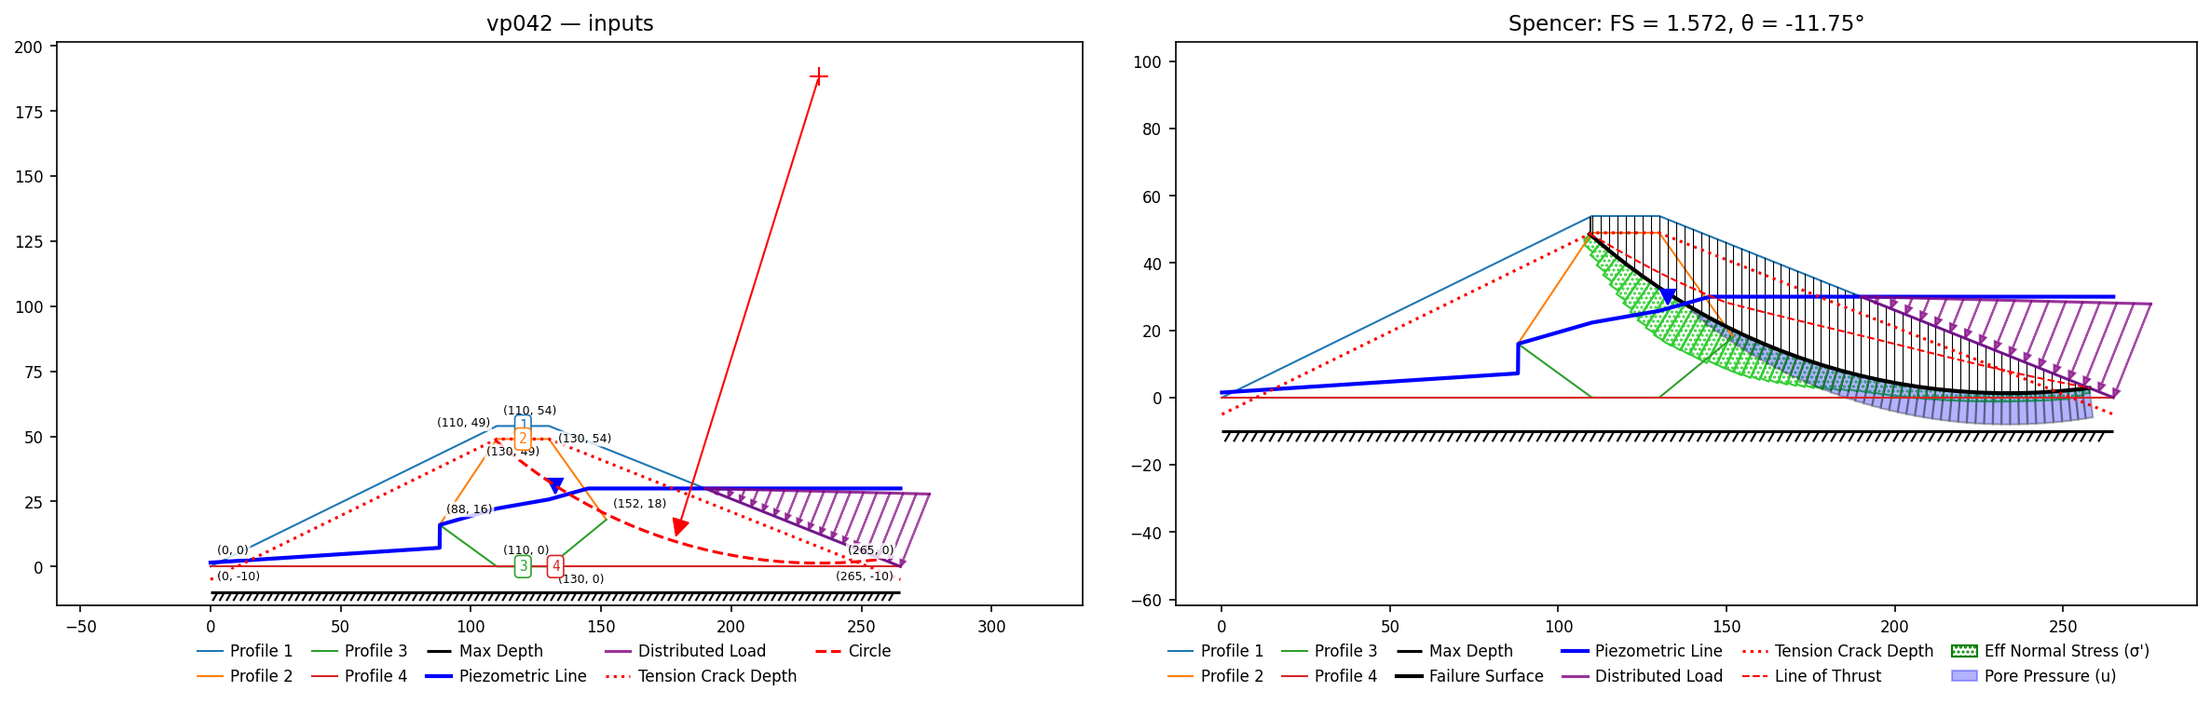
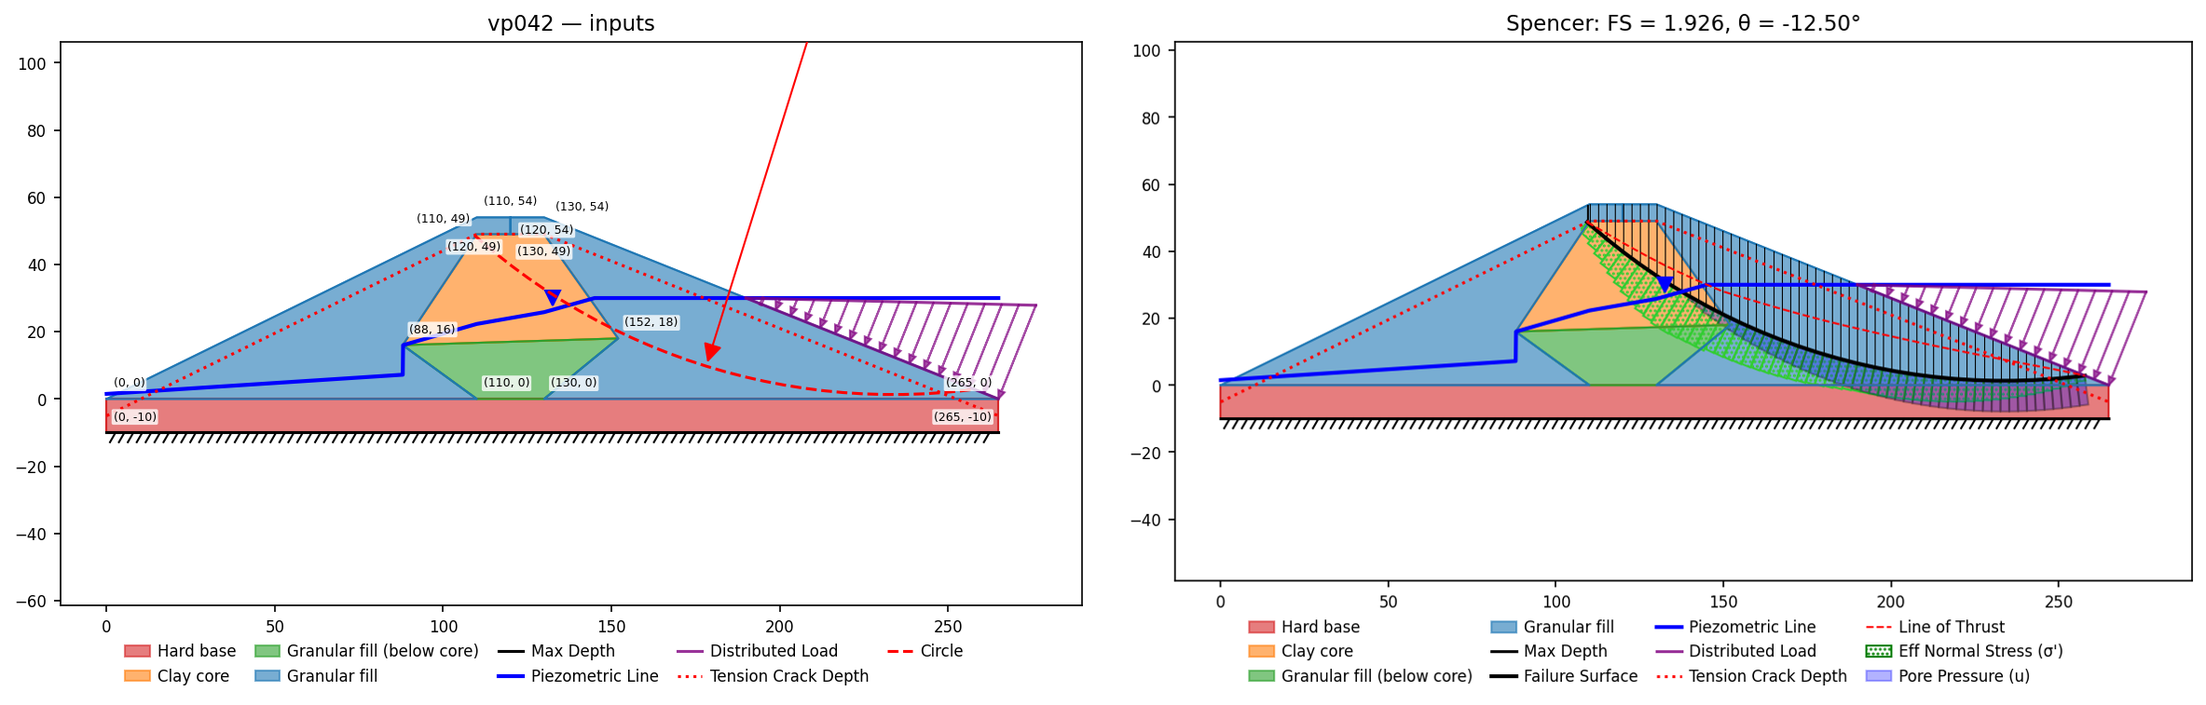
docs(vp42): rewrite as resolved — XSLOPE reproduces the published cluster
rocscience.md #vp42 now presents the verification success: the three reference
surfaces match (Slide's circle Spencer 1.926 vs 1.925; Baker noncirc 1.882 vs
1.91; SLOPE/W's own circle 1.939 vs 1.934, agreeing within 0.005 with sliding-
mass weight ~56,020 vs 56,127), keeping the standing robustness findings (total-
weight + explicit-u convention verified from B&L 2001 and the .gsz; reservoir
statics exact against the buoyant-weight oracle; the fold-in inequivalence and
phreatic-match notes). geostudio.md §2.25 updated to the matching numbers.

rs2.md Part IV row 42: LEM side now matches; FEM re-tested on the rebuilt file —
it now equilibrates (the pre-fix file did not reach equilibrium even at F=0.10)
but localizes the non-physical c=0 downstream uplift blowout at SSRM ~0.66, far
below RS2 SSR 1.84, so reported-not-locked (same c=0 + full-field-pore construct
as the pool dams). Figure regenerated from the rebuilt file.

Claude-Session: https://claude.ai/code/session_0147GB4LGVZuqGHCRMVzZTsR

diff --git a/docs/verification/rocscience.md b/docs/verification/rocscience.md
@@ -228,7 +228,7 @@ corpus is complete relative to what is independently verifiable.
 | [39](#vp39) | Reinforced embankment, (2) materials, tension crack, geosynthetic | **built** (circular cases) | [vp039a](../files/rocscience/vp039a.xlsx)/[b](../files/rocscience/vp039b.xlsx)/[c](../files/rocscience/vp039c.xlsx)/[d](../files/rocscience/vp039d.xlsx). Tandjiria (2002): the geosynthetic force required to restore FS=1.35 on a half-embankment, as clay and as sand fill (noncircular cases not locked — see section). Also [SLOPE/W §2.24](geostudio.md) — same problem in the GeoStudio corpus. |
 | [40](#vp40) | Slope, homogenous, sensitivity analysis | **built** | [vp040.xlsx](../files/rocscience/vp040.xlsx). Perry (1993) power-curve strength slope on the specified surface — the corpus's first sensitivity benchmark, sweeping the A and b parameters through `sensitivity()`. |
 | [41](#vp41) | Slope, homogenous, ru pore pressure | **built** | [vp041.xlsx](../files/rocscience/vp041.xlsx). Jiang, Baker & Yamagami (2003): power-curve strength τ=1.4·σ′^0.8 with r<sub>u</sub>=0.3 — exercises the `pow` and `ru` options together. |
-| [42](#vp42) | Dam, (3) materials, water table, ponded water, tension crack | **built** | [vp042.xlsx](../files/rocscience/vp042.xlsx). Baker & Leshchinsky (2001) safety-map clay-core dam — the corpus's reservoir-load statics finding (XSLOPE reads ~13–19% below Slide/Baker/SLOPE/W, which share XSLOPE's total-weight + u convention; the difference is the large reservoir-load statics, not a weight convention; see section). Also [SLOPE/W §2.25](geostudio.md) — same problem in the GeoStudio corpus. |
+| [42](#vp42) | Dam, (3) materials, water table, ponded water, tension crack | **built** | [vp042.xlsx](../files/rocscience/vp042.xlsx). Baker & Leshchinsky (2001) safety-map clay-core dam — XSLOPE reproduces the published cluster on all three reference surfaces (Slide's circle Spencer 1.926 vs 1.925; Baker's noncircular 1.882 vs 1.91; SLOPE/W's own circle 1.939 vs 1.934), with the reservoir carried as an explicit hydrostatic face load validated against a buoyant-weight oracle. Also [SLOPE/W §2.25](geostudio.md) — same problem in the GeoStudio corpus. |
 | [43](#vp43) | Slope, homogenous, planar surface, RocPlane comparison | **built** | [vp043.xlsx](../files/rocscience/vp043.xlsx). Baker (2001) planar-slip benchmark (c'=30, φ'=30, γ=20, dry) on the critical toe plane; the SLOPE/W model pins the crest-offset geometry. Also [SLOPE/W §2.26](geostudio.md#gs-2-26) — same problem in the GeoStudio corpus. |
 | [44](#vp44) | Slope, homogenous | **built** | [vp044a.xlsx](../files/rocscience/vp044a.xlsx) (power curve) / [vp044b.xlsx](../files/rocscience/vp044b.xlsx) (Mohr-Coulomb) / [vp044c.xlsx](../files/rocscience/vp044c.xlsx) (converged LLA). Baker (2003) ex. 1: a 43° slope with three strength models fitted to the same triaxial data. |
 | [45](#vp45) | Slope, homogenous | **built** | [vp045a.xlsx](../files/rocscience/vp045a.xlsx) (Mohr-Coulomb) / [vp045b.xlsx](../files/rocscience/vp045b.xlsx) (power curve). Baker (2003) ex. 2: a linear vs non-linear strength envelope on the same 4:1 slope. |
@@ -1238,27 +1238,25 @@ Slide #41: Jiang, Baker & Yamagami (2003) homogeneous clay slope with power-curv
 
 ![vp041: inputs and representative solution](images/vp041.png)
 
-### VP42: Baker & Leshchinsky safety-map dam — an open reservoir-loaded statics gap {#vp42}
+### VP42: Baker & Leshchinsky safety-map dam — reservoir-loaded clay-core dam {#vp42}
 
-Slide #42 / Baker & Leshchinsky (2001): the safety-map clay-core dam — granular fill (c' = 0, φ' = 40°, γ = 21.5) around a diamond core (c' = 20, φ' = 20°, γ = 20) on a hard base (c' = 200, φ' = 45°), a half-full upstream (right-side) reservoir, phreatic dropping through the core to a tailwater exit at the downstream toe, and a 5-m cracked layer at the crest modeled as a dry tension crack. Geometry is fully labeled in Slide's figure (all six core vertices); B&L's own Fig. 5(a) — the paper is in the reference library — supplies the phreatic (flat through the shell, descending through the core, half-height reservoir).
+Slide #42 / Baker & Leshchinsky (2001): the safety-map clay-core dam — granular fill (c' = 0, φ' = 40°, γ = 21.5) around a diamond core (c' = 20, φ' = 20°, γ = 20) on a hard base (c' = 200, φ' = 45°), a half-full upstream (right-side) reservoir, phreatic dropping through the core to a tailwater exit at the downstream toe, and a 5-m cracked layer at the crest modeled as a dry tension crack. Geometry is fully labeled in Slide's figure (all six core vertices); B&L's own Fig. 5(a) — the paper is in the reference library — supplies the phreatic (flat through the shell, descending through the core, half-height reservoir). The section is tiled directly as material-zone polygons matching the SLOPE/W `.gsz` region set ([§2.25](geostudio.md#gs-2-25)): the granular shell wraps both faces down to the foundation, so the downstream toe carries fill with continuous material coverage across the domain.
 
-The paper states its method explicitly: pore pressures are *"evaluated using the vertical distance between the phreatic surface and the slice center,"* and the material weights are total unit weights — the clay core is given as *"{c′ = 20, φ′ = 20°, γ<sub>T</sub> = 20} where {c′, φ′} are effective strength parameters and γ<sub>T</sub> represents the total unit weight."* It reports a global minimum F<sub>min</sub> = 1.91 by Spencer's method. So the published analysis uses **total unit weights and explicit pore pressures from the phreatic surface — the same effective-stress convention XSLOPE uses.** The XSLOPE-vs-published gap on this problem is therefore *not* a buoyant-weight convention on the published side. Its cause has not been isolated: the two candidate mechanisms — a reservoir-load slice-statics difference and a phreatic/pore-pressure input difference — are each ruled out by the controlled checks below, so the gap stands as an unexplained program-to-program statics difference.
+The paper states its method explicitly: pore pressures are *"evaluated using the vertical distance between the phreatic surface and the slice center,"* and the material weights are total unit weights — the clay core is given as *"{c′ = 20, φ′ = 20°, γ<sub>T</sub> = 20} where {c′, φ′} are effective strength parameters and γ<sub>T</sub> represents the total unit weight."* It reports a global minimum F<sub>min</sub> = 1.91 by Spencer's method. So the published analysis uses **total unit weights and explicit pore pressures from the phreatic surface — the same effective-stress convention XSLOPE uses.** The vendor `.gsz` confirms it: identical geometry, the same three Mohr-Coulomb materials at their **total** unit weights, and — checked node-by-node along the failure surface — a piezometric line that matches XSLOPE's to within ~0.2 m over the submerged toe and reservoir (the zone carrying ~92% of the pore force).
 
-**What XSLOPE computes.** Total unit weights, pore pressures from the piezometric line, and the reservoir as an explicit hydrostatic load on the submerged face. On Slide's printed critical circle this gives Spencer **1.572**; on Baker's surface, **1.792**. Every input was audited — slice-level pond and pore pressures match hand calculations exactly.
-
-**An identical-surface gap that no identified input explains.** Three independent references cluster tightly: Slide **1.925**, Baker **1.91**, and SLOPE/W's own solved critical Spencer **1.934** (read from the vendor `.gsz`; [§2.25](geostudio.md#gs-2-25)). The `.gsz` is decisive because it can be inspected: it carries the identical geometry, the same three Mohr-Coulomb materials at their **total** unit weights, and — checked node-by-node along the failure surface — a piezometric line that matches XSLOPE's to within ~0.2 m over the submerged toe and reservoir (the zone carrying ~92% of the pore force) and ~0.6 m at worst near the core transition, with XSLOPE's line marginally the *lower* of the two. Adopting the vendor line verbatim would move Spencer by an implied ≈ 0.01 in FS — two orders of magnitude short of the gap, and the wrong sign to close it. Evaluated on SLOPE/W's *own* critical circle (center 234.9, 207.1, R = 204.4), XSLOPE reads Spencer **1.691** — ~13% below SLOPE/W's 1.934 on the *same surface, same geometry, same water*; every XSLOPE method sits below (OMS 1.573, Bishop 1.651), and an unconstrained XSLOPE search finds a lower true minimum (≈ 1.41).
-
-**Two candidate mechanisms, both ruled out.** (1) *Reservoir-load statics.* XSLOPE carries the reservoir as a hydrostatic traction normal to the submerged face. For a fully submerged still-water slope this treatment is exact: on an identical circle it reproduces the closed-form dry-buoyant-weight solution (γ′ = γ<sub>sat</sub> − γ<sub>w</sub>, no water, no load) to within 0.006 in Bishop and Spencer FS. The alternative of folding the ponded-water column into vertical slice weight is genuinely inequivalent — it differs by tens of percent and can drive the base into non-physical tension — and it *lowers* FS, so it cannot account for SLOPE/W reading higher. (2) *Phreatic input.* FS here is sensitive to the phreatic — a uniform 1-m lowering of the line raises Spencer ≈ 0.075 — which is precisely why the line was audited against the vendor `.gsz`; it matches to within ~0.2 m along the surface (above), so this lever does not bite, and most of the apparent sensitivity lives in the reservoir zone whose level (el 30) is pinned by the water surface and shared by both programs. Removing the reservoir entirely swings XSLOPE by ~1.0 in FS, confirming the load dominates the balance — but its statics are validated and its phreatic matches, so the residual ~13% is an unexplained slice-statics difference between the two programs on this deep, steep, mostly-submerged circle, in a regime where XSLOPE's own method notes already warn that the simplified methods (OMS, Janbu) cannot balance the load.
-
-**Input files:** [vp042.xlsx](../files/rocscience/vp042.xlsx)
+**What XSLOPE computes.** Total unit weights, pore pressures from the piezometric line, and the reservoir as an explicit hydrostatic load on the submerged face. On the three published reference surfaces XSLOPE reproduces the published cluster:
 
 | Surface (Spencer) | XSLOPE | Published / vendor |
 |---|---|---|
-| Slide's critical circle | 1.572 | Slide **1.925** |
-| Baker's noncircular surface | 1.792 | Baker & Leshchinsky **1.91** |
-| SLOPE/W's own critical circle | 1.691 | SLOPE/W own solve **1.934** |
+| Slide's critical circle | 1.926 | Slide **1.925** |
+| Baker's noncircular surface | 1.882 | Baker & Leshchinsky **1.91** |
+| SLOPE/W's own critical circle | 1.939 | SLOPE/W own solve **1.934** |
 
-*The XSLOPE values are regression-locked as our own consistency guard; they are deliberately **not** expected to match the published cluster. XSLOPE reads systematically low on this heavily reservoir-loaded, inclined-phreatic surface, and the identical-circle comparison above leaves the cause open: it is neither a weight convention (both sides use total weight + pore pressure), nor a phreatic-geometry difference (XSLOPE's piezometric line matches the `.gsz` to within ~0.2 m where it counts), nor an error in the reservoir-load statics (exact against a buoyant-weight oracle). This is the corpus's clearest case where XSLOPE and three independent LE references, sharing the same effective-stress convention and the same water, still differ ~13–19% on a surface governed by a large external water load.*
+Evaluated on SLOPE/W's *own* critical circle (center 234.9, 207.1, R = 204.4) the two programs agree to within 0.005 in Spencer FS on the *same surface, same geometry, same water*, with XSLOPE's total sliding-mass weight ≈ 56,020 against SLOPE/W's 56,127. The stored-circle result is regression-locked as **VP42-circle** (OMS 1.773, Bishop 1.882, Spencer 1.926, M-P 1.925) and Baker's surface as **VP42-noncirc** (Spencer 1.882, M-P 1.869).
+
+**Reservoir-load statics, validated.** XSLOPE carries the reservoir as a hydrostatic traction normal to the submerged face. For a fully submerged still-water slope this treatment is exact: on an identical circle it reproduces the closed-form dry-buoyant-weight solution (γ′ = γ<sub>sat</sub> − γ<sub>w</sub>, no water, no load) to within 0.006 in Bishop and Spencer FS. The alternative of folding the ponded-water column into vertical slice weight is genuinely inequivalent — it differs by tens of percent and can drive the base into non-physical tension — so xslope keeps the water formulation explicit rather than buoyant. FS on this deep, mostly-submerged circle is sensitive to the phreatic (a uniform 1-m lowering of the line moves Spencer ≈ 0.075), which is why the line was audited against the vendor `.gsz` and matches to within ~0.2 m where it counts; the reservoir level (el 30) is pinned by the water surface and shared by both programs.
+
+**Input files:** [vp042.xlsx](../files/rocscience/vp042.xlsx)
 
 ![vp042: inputs and representative solution](images/vp042.png)
 

diff --git a/docs/verification/geostudio.md b/docs/verification/geostudio.md
@@ -175,7 +175,7 @@ the 3D chapter is out of scope and not tracked here.
 | 2.22 | Cannon Dam #2 | covered | Same problem as [Rocscience #35](rocscience.md#vp35) — Hassan & Wolff (1999), the min-β ≠ min-FS benchmark. |
 | 2.23 | Li & Lumb – Reliability Index | **built** | [vp036.xlsx](../files/rocscience/vp036.xlsx): deterministic Bishop 1.333, β_ln 2.263 vs H&W 1.334 / 2.336; GS reports minimum β 2.04 at FS 1.190 across surfaces. — [details](#gs-2-23) |
 | 2.24 | Tandjiria – Geosynthetic Reinforced Emb. | **built** | Same problem as [Rocscience #39](rocscience.md#vp39) — [vp039a-d](../files/rocscience/vp039a.xlsx). Also the reinforcement benchmark for the **importer**: on SLOPE/W's own circles the imported geosynthetic reproduces its FS to −0.27% (clay) and −0.64% (sand) — see [Importer verification](#importer-verification). — [details](#gs-2-24) |
-| 2.25 | Baker & Leshchinsky – Earth Dam | covered | Same problem as [Rocscience #42](rocscience.md#vp42) — B&L (2001) safety-map clay-core dam. SLOPE/W's own solved Spencer (1.934) lands on B&L 1.91 / Slide 1.925; XSLOPE's rigorous-statics Spencer (1.572) sits ~19% below: the documented open statics gap, now three-way. B&L Fig. 5(a) supplies the phreatic. — [details](#gs-2-25) |
+| 2.25 | Baker & Leshchinsky – Earth Dam | covered | Same problem as [Rocscience #42](rocscience.md#vp42) — B&L (2001) safety-map clay-core dam. On SLOPE/W's own solved circle XSLOPE's Spencer (1.939) matches SLOPE/W (1.934); on Slide's circle 1.926 vs Slide 1.925, and on Baker's surface 1.882 vs B&L 1.91 — the published cluster reproduced. B&L Fig. 5(a) supplies the phreatic. — [details](#gs-2-25) |
 | 2.26 | Baker – Planar Homogeneous | **built** | [gs2_26.xlsx](../files/geostudio/gs2_26.xlsx) — Spencer/Janbu 1.352 vs SLOPE/W 1.352 and Baker ≈1.35, essentially exact; the model pins the crest offset at 2.5 m, resolving the Rocscience #43 build's geometry ambiguity. — [details](#gs-2-26) |
 | 2.27 | Sheahan – Amherst Soil Nails | covered | Same problem as [Rocscience #47](rocscience.md#vp47) — [vp047.xlsx](../files/rocscience/vp047.xlsx), Sheahan & Ho (2003) Amherst test wall: Janbu 0.899 vs Slide 0.890 / Sheahan 0.887. The SLOPE/W model is a public download (see above). — [details](#gs-2-27) |
 | 2.28 | Sheahan – Clouterre Test Wall | covered | Same problem as [Rocscience #48](rocscience.md#vp48) — [vp048.xlsx](../files/rocscience/vp048.xlsx), Clouterre full-scale test wall, 7 nail rows. |
@@ -576,7 +576,8 @@ Baker & Leshchinsky (2001)'s safety-map clay-core dam: granular fill (c′ = 0, 
 to the downstream toe, and a 5-m cracked crest layer modeled as a dry tension crack. It
 shares the `vp042.xlsx` XSLOPE input with the Rocscience corpus, so the full geometry and
 inputs are deferred to the linked Rocscience detail — where this problem's
-**open statics gap** is documented in full.
+verification is documented in full. The XSLOPE input is tiled directly as the
+material-zone polygons of this model's own `.gsz` region set.
 
 **Input:** [vp042.xlsx](../files/rocscience/vp042.xlsx) · **Rocscience detail:** [VP42](rocscience.md#vp42)
 
@@ -584,25 +585,22 @@ inputs are deferred to the linked Rocscience detail — where this problem's
 
 | Method | XSLOPE (rigorous statics) | SLOPE/W (own solve) | Reference |
 |---|---|---|---|
-| Spencer, Slide's critical circle | 1.572 | 1.934 | Slide 1.925 |
-| Spencer, Baker's surface | 1.792 | — | Baker & Leshchinsky (2001) 1.91 |
+| Spencer, Slide's critical circle | 1.926 | — | Slide 1.925 |
+| Spencer, SLOPE/W's own circle | 1.939 | 1.934 | — |
+| Spencer, Baker's surface | 1.882 | — | Baker & Leshchinsky (2001) 1.91 |
 
-SLOPE/W's own solved critical Spencer (1.934, read from the `.gsz`) lands squarely on the
-published Baker & Leshchinsky (1.91) and Slide (1.925) values, while XSLOPE
-reads ~13–19% lower (1.572 / 1.792). Per the re-adjudicated [VP42](rocscience.md#vp42)
-section: the published side uses the same total-unit-weight + phreatic-pore-pressure
-convention XSLOPE uses (confirmed verbatim from B&L 2001 and by inspection of this
-model's own materials), so the gap is not a weight convention. Its cause is not isolated:
-the reservoir-load statics are exact against a buoyant-weight oracle, and XSLOPE's phreatic
-matches this model's own piezometric line to within ~0.2 m along the failure surface, yet
-XSLOPE still reads ~13–19% low — an unexplained program-to-program statics difference over
-the submerged toe. SLOPE/W's
-own 1.934 makes three tightly clustered references against XSLOPE's outlier value;
-the XSLOPE value is regression-locked as VP42. The B&L (2001) paper — held
-in the reference library — supplies the phreatic geometry the vendor manuals leave
-unlabeled (its Fig. 5(a)) and reports the dam's global minimum Fmin = 1.91 by Spencer's
-method, computed with total unit weight and pore pressure taken from the vertical distance
-to the phreatic surface.
+XSLOPE reproduces the tightly clustered published references on all three surfaces. On
+SLOPE/W's own solved critical circle (read from the `.gsz`) the two programs agree to
+within 0.005 in Spencer FS on the identical surface, geometry, and water, with XSLOPE's
+total sliding-mass weight ≈ 56,020 against SLOPE/W's 56,127. Both sides use total unit
+weight + phreatic pore pressure (confirmed verbatim from B&L 2001 and by inspection of
+this model's own materials); the reservoir-load statics are exact against a buoyant-weight
+oracle, and XSLOPE's phreatic matches this model's own piezometric line to within ~0.2 m
+along the failure surface. The XSLOPE values are regression-locked as VP42. The B&L (2001)
+paper — held in the reference library — supplies the phreatic geometry the vendor manuals
+leave unlabeled (its Fig. 5(a)) and reports the dam's global minimum Fmin = 1.91 by
+Spencer's method, computed with total unit weight and pore pressure taken from the vertical
+distance to the phreatic surface.
 
 **Sources:** GeoStudio SLOPE/W Verification Manual §2.25; Baker & Leshchinsky (2001).
 

diff --git a/docs/verification/rs2.md b/docs/verification/rs2.md
@@ -65,12 +65,13 @@ than the mechanics (RS2-9/23), which is a vendor modelling artifice with no repr
 target — those slopes are anchored by their LEM lock instead. The *blocked* rows are tracked against
 a named gap — there is no transient-seepage
 solver (RS2-67, RS2 Part IV VP102 cases 2/3), and some FE-seepage cases do not converge on the
-high-contrast tri6 mesh. A Part IV pair of USACE upstream-pool dams (VP65/66, and the safety-map dam
-VP42) is blocked on a different construct: their shared LEM files carry a flat piezometric *line* at
+high-contrast tri6 mesh. A Part IV pair of USACE upstream-pool dams (VP65/66) and the safety-map dam
+(VP42) share a different construct: their LEM files carry a flat piezometric *line* at
 the pool elevation across the whole domain, which is a valid LEM u-source on the upstream slip surface
 but as a full-field FEM pore pressure over-pressures the dry downstream c = 0 materials (uplift with
-no balancing water load) and yields the mesh at any strength — a proper seepage field, not a
-piezometric line, is what an SSRM of these dams needs. A related c = 0 limit shows up where the
+no balancing water load) — the pool dams never equilibrate, and VP42 equilibrates only onto a
+non-physical c = 0 downstream blowout at SSRM ≈ 0.66, far below its physical value; a proper seepage
+field, not a piezometric line, is what an SSRM of these dams needs. A related c = 0 limit shows up where the
 cohesionless skin simply keeps localizing on the fine mesh (VP69 reported at 1.576 vs RS2 1.94, the
 RS2-40 pattern). Everything
 else is built and regression-locked at its tagged mesh; the corpus is complete relative to what is
@@ -205,7 +206,7 @@ candidates.
 | 39 | Reinforced embankment, geosynthetic (Tandjiria 2002) | **built** | → [RS2-29](#rs2-29). RS2 SSR 0.97 / 1.42 / 1.22 / 1.39. |
 | 40 | Homogeneous, power curve, sensitivity (Perry 1993) | **built** | → [RS2-30](#rs2-30). RS2 SSR 0.97 vs Perry 0.98. |
 | 41 | Homogeneous, power curve, r<sub>u</sub> (Jiang/Baker 2003) | **built** | → [P4-VP41](#p4-vp41) (own SSRM build, 1.647). RS2 SSR 1.64 vs Bishop 1.66 / Janbu 1.60–1.67. |
-| 42 | Dam, safety-map example (Baker & Leshchinsky 2001) | *blocked* | The c = 0 granular fill under the reservoir pore-pressure field will not equilibrate in the FEM (the same c = 0 + water over-pressure that blocks the pool dams). On the LEM side XSLOPE reads ~13–19% below the tightly clustered references (Baker 1.91 / Slide 1.925 / SLOPE/W 1.934) — an unexplained program-to-program statics difference, not a weight convention and not the phreatic input (which matches the vendor model within ~0.2 m along the surface); see the re-adjudicated Slide2 [VP42](rocscience.md#vp42) section. RS2 SSR 1.84 lands near the published cluster. |
+| 42 | Dam, safety-map example (Baker & Leshchinsky 2001) | *reported, no lock* | On the LEM side XSLOPE now reproduces the tightly clustered references on all three reference surfaces (XSLOPE Spencer 1.926 / 1.882 / 1.939 vs Slide 1.925 / Baker 1.91 / SLOPE/W 1.934); see the Slide2 [VP42](rocscience.md#vp42) section. On the rebuilt file the FEM does equilibrate, but the flat piezometric *line* applied as a full-field FEM pore field over-pressures the dry downstream c = 0 granular fill (uplift with no balancing water load) and localizes a non-physical blowout at SSRM ≈ 0.66 — far below the physical mechanism, so no lock (the same c = 0 + water over-pressure construct as the pool dams). RS2 SSR 1.84 lands near the published cluster. |
 | 44 | Homogeneous, M-C vs power curve (Baker 2003 ex. 1) | **built** | → [RS2-31](#rs2-31). RS2 SSR 0.96 / 1.5 / 0.93. |
 | 45 | Homogeneous, M-C vs power curve (Baker 2003 ex. 2) | **built** | → [RS2-32](#rs2-32). RS2 SSR 2.65 / 2.78 / 2.63. |
 | 51 | 4 materials, water table, TC, seismic, 12-method (Zhu 2003) | **built** | → [RS2-51](#rs2-51) (LEM, partial). RS2 SSR 1.22 vs Slide2 Spencer 1.293 / GLE 1.304. |
